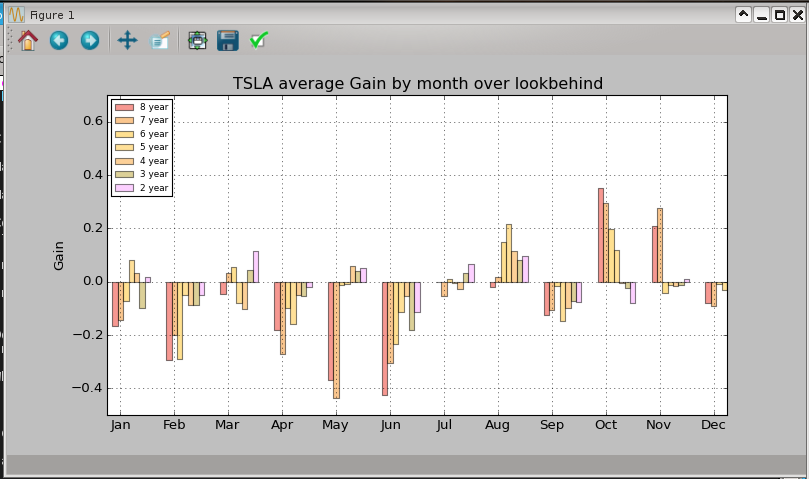
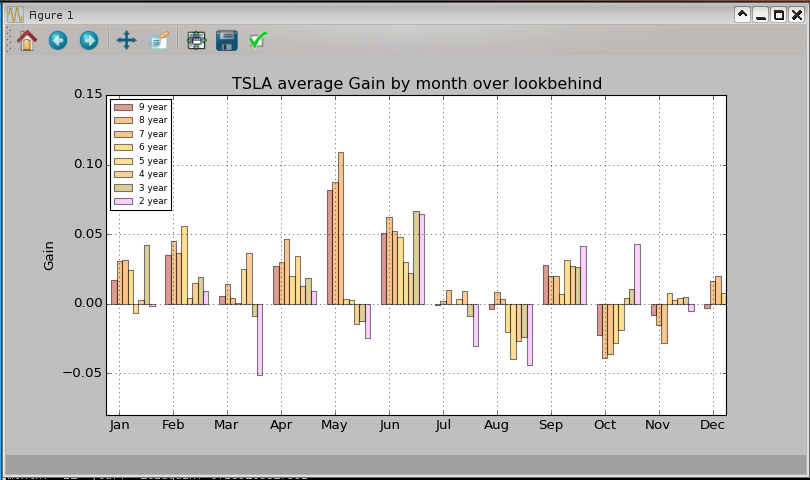
asdf

Changed region(s): [[0.0927, 0.1461, 0.9271, 0.9061], [0.0, 0.0, 1.0, 1.0], [0.2781, 0.4676, 0.309, 0.4969]]

diff --git a/month.py b/month.py
@@ -4,6 +4,7 @@ import pandas as pd
 import matplotlib.pyplot as plt
 import numpy as np
 import datetime
+import time
 
 #1.  Load tsla.csv file
 
@@ -72,7 +73,6 @@ def get_price_for_month_year(startpct, endpct, month, year):
     total = 0.0
     rows_in_month = 0
 
-
     #I need to know how many rows are in this month:
     rows_in_month = 0.0
     for row in X:
@@ -80,20 +80,24 @@ def get_price_for_month_year(startpct, endpct, month, year):
             rows_in_month += 1
 
     #print("rows_in_month: '" + str(rows_in_month) + "'")
+    #time.sleep(1)
 
+    #throw out months with less than 14 days in it
+    if rows_in_month < 16:
+        print("month: '" + str(month) + "' and year: '" + str(year) + "' insufficient data")
+        return 0.0
 
     #Filter csv rows by concrete year and concrete month, roughly 20 rows
-    import time
-    count_day = 0.0
+    count_day = 0
+    total_cnt = 0
     for row in X:
-
-        
         if int(year) == int(row[0]) and int(month) == int(row[1]):
-            percent_through_month = count_day / rows_in_month
+            percent_through_month = float(count_day) / float(rows_in_month)
             #print("percent_through_month: '" + str(percent_through_month) + "'")
 
             if percent_through_month > startpct and percent_through_month < endpct:
-                total += row[3]
+                total += float(row[3])
+                total_cnt += 1
 
             count_day += 1
             #time.sleep(0.1)
@@ -112,10 +116,10 @@ def get_price_for_month_year(startpct, endpct, month, year):
     #print("total: '" + str(total) + "'")
     #time.sleep(0.1)
     try:
-        price = float(total) / float(rows_in_month)
+        price = float(total) / float(total_cnt)
     except:
         price = 0.0
-        #print("programmer error, this equation should always work")
+        print("programmer error, on month: ' " + str(int(month)) + "' year: '" + str(int(year)) + "' this equation should always work")
         #exit()
 
     return float(price)
@@ -125,13 +129,16 @@ def calculate_gain_from_month_and_year(month, year):
 
     #Jan 2005,
 
+
+    #woah woah, don't look at this backwards, we're looking at the rows top down 
+    #which is present -> past, first means top which means present
     startpct = 0.0
     endpct = 0.3
-    first_third = get_price_for_month_year(startpct, endpct, month, year)
+    last_third = get_price_for_month_year(startpct, endpct, month, year)
 
     startpct = 0.7
     endpct = 1.0
-    last_third  = get_price_for_month_year(startpct, endpct, month, year)
+    first_third  = get_price_for_month_year(startpct, endpct, month, year)
 
     #month_data is a list of [ date, open, high,  low,  close ]
 
@@ -139,12 +146,15 @@ def calculate_gain_from_month_and_year(month, year):
     #get the last 30% of the data
     #Get the gain from the first 3rd averaged and the last 3rd averaged
 
+
+
     #return that
     if (float(first_third) == 0):
-        #There isn't enough data for this year/month
+        print("There isn't enough data for this year/month")
         return 0
 
     else:
+        print("year: '" + str(year) + "' first_third: '" + str(first_third) + "' last_third: '" + str(last_third) + "' thegain: '" + str( ((last_third - first_third) / first_third)) + "'")
         return ((last_third - first_third) / first_third)
 
 
@@ -155,10 +165,14 @@ def calculate_gain_from_month_and_year_range(month, year_range):
     #calculate gain based on month and year_range
 
     total_gain = 0.0
+    total_cnt = 0
     for year in year_range:
-
         total_gain += calculate_gain_from_month_and_year(month, year)
-    return total_gain
+        total_cnt += 1
+
+    print("month: '" + str(month) + "' year: '" + str(year) + "gain: " + str(total_gain))
+
+    return float(total_gain) / float(total_cnt)
 
 
 now = datetime.datetime.now()
@@ -179,6 +193,7 @@ month_map={
     12 : 'Dec'
 }
 lookbehind_map={
+    9 : '9_yr', 
     8 : '8_yr', 
     7 : '7_yr',
     6 : '6_yr',
@@ -189,6 +204,7 @@ lookbehind_map={
 }
 
 raw_data = {'month': ['Jan', 'Feb', 'Mar', 'Apr', 'May', 'Jun', 'Jul', 'Aug', 'Sep', 'Oct', 'Nov', 'Dec'],
+        '9_yr':      [4,     2.4,   3.1,    2,      3,     9.0,  2, 3, 4, 5, 6, 7],
         '8_yr':      [4,     2.4,   3.1,    2,      3,     9.0,  2, 3, 4, 5, 6, 7],
         '7_yr':      [2.5,   9.4,   5.7,    6.2,   7.0,    1.0,  2, 3, 4, 5, 6, 7],
         '6_yr':      [2.5,   3.4,   5.7,    6.2,   7.0,    1.0,  2, 3, 4, 5, 6, 7],
@@ -197,10 +213,18 @@ raw_data = {'month': ['Jan', 'Feb', 'Mar', 'Apr', 'May', 'Jun', 'Jul', 'Aug', 'S
         '3_yr':      [2.5,   1.4,  -5.7,    0.2,   7.0,    1.0,  2, 3, 4, -5, 6, 7],
         '2_yr':      [5,     4.3,   2.3,    2.3,   5.1,   2.0,   2, 3, 4, 5, 6, 7]}
 
+print("begin the program")
+#time.sleep(1)
 
 #months is integer, ones based
 for month in ['1', '2', '3', '4', '5', '6', '7', '8', '9', '10', '11', '12']:
-    for year_lookbehind in [8, 7, 6, 5, 4, 3, 2]:
+    #print("looking at month " + str(month))
+    #time.sleep(1)
+
+    for year_lookbehind in [9, 8, 7, 6, 5, 4, 3, 2]:
+
+        #print("using year_lookbehind: " + str(year_lookbehind))
+        #time.sleep(1)
 
         total_gain = 0
         counter = 0
@@ -208,20 +232,24 @@ for month in ['1', '2', '3', '4', '5', '6', '7', '8', '9', '10', '11', '12']:
         int_year_range = range(0, year_lookbehind)
         thisyear_list = [thisyear]*len(int_year_range)
         year_range = [a - b for a, b in zip(thisyear_list, int_year_range)]
+        
+        #print("year_range: '" + str(year_range) + "'")
+
         gain = calculate_gain_from_month_and_year_range(month, year_range)
+        #print("gain: '" + str(gain) + "'")
+        #exit()
+        #print("month: '" + str(month) + "'")
+        #print("gain: '" + str(gain) + "'")
+        #print(month_map[int(month)])
+        #print(lookbehind_map[int(year_lookbehind)])
 
-        print("month: '" + str(month) + "'")
-        print("gain: '" + str(gain) + "'")
-        print(month_map[int(month)])
-        print(lookbehind_map[int(year_lookbehind)])
-
-        print(raw_data[lookbehind_map[int(year_lookbehind)]][int(month)-1])
+        #print(raw_data[lookbehind_map[int(year_lookbehind)]][int(month)-1])
         raw_data[lookbehind_map[int(year_lookbehind)]][int(month)-1] = gain
 
 
 
 
-df = pd.DataFrame(raw_data, columns = ['month', '8_yr', '7_yr', '6_yr', '5_yr', '4_yr', '3_yr', '2_yr'])
+df = pd.DataFrame(raw_data, columns = ['month', '9_yr', '8_yr', '7_yr', '6_yr', '5_yr', '4_yr', '3_yr', '2_yr'])
 
 pos = list(range(len(df['8_yr'])))
 width = 0.10
@@ -232,67 +260,76 @@ fig, ax = plt.subplots(figsize=(10,5))
 # Create a bar with 8_yr data,
 # in position pos,
 plt.bar(pos,
+        df['9_yr'],
+        width,
+        alpha=0.5,
+        color='#BE3929',
+        label=df['month'][0])
+print(type(plt.bar))
+
+# Create a bar with 8_yr data,
+# in position pos,
+plt.bar([p + width for p in pos],
         df['8_yr'],
         width,
         alpha=0.5,
-        color='#EE3224',
-        label=df['month'][0])
-print(type(plt.bar))
+        color='#F78F1E',
+        label=df['month'][2])
 
 
 # Create a bar with 7_yr data,
 # in position pos + some width buffer,
-plt.bar([p + width for p in pos],
+plt.bar([p + width*2 for p in pos],
         df['7_yr'],
         width,
         alpha=0.5,
         color='#F78F1E',
-        label=df['month'][1])
+        label=df['month'][2])
 
 # Create a bar with 6_yr data,
 # in position pos + some width buffer,
-plt.bar([p + width*2 for p in pos],
+plt.bar([p + width*3 for p in pos],
         df['6_yr'],
         width,
         alpha=0.5,
         color='#FFC222',
-        label=df['month'][2])
+        label=df['month'][3])
 
 # Create a bar with 5_yr data,
 # in position pos + some width buffer,
-plt.bar([p + width*3 for p in pos],
+plt.bar([p + width*4 for p in pos],
         df['5_yr'],
         width,
         alpha=0.5,
         color='#FFC233',
-        label=df['month'][3])
+        label=df['month'][4])
 
 # Create a bar with 4_yr data,
 # in position pos + some width buffer,
-plt.bar([p + width*4 for p in pos],
+plt.bar([p + width*5 for p in pos],
         df['4_yr'],
         width,
         alpha=0.5,
         color='#FAA233',
-        label=df['month'][4])
+        label=df['month'][5])
 
 # Create a bar with 3_yr data,
 # in position pos + some width buffer,
-plt.bar([p + width*5 for p in pos],
+plt.bar([p + width*6 for p in pos],
         df['3_yr'],
         width,
         alpha=0.5,
         color='#BAA233',
-        label=df['month'][5])
+        label=df['month'][6])
 
 # Create a bar with 2_yr data,
 # in position pos + some width buffer,
-plt.bar([p + width*6 for p in pos],
+plt.bar([p + width*7 for p in pos],
         df['2_yr'],
         width,
         alpha=0.5,
         color='#FAA2FF',
-        label=df['month'][6])
+        label=df['month'][7])
 
 # Set the y axis label
 ax.set_ylabel('Gain')
@@ -311,10 +348,11 @@ plt.xlim(min(pos)-width, max(pos)+width*4)
 
 #hardcode height:
 #plt.ylim([-0.5, max(df['8_yr'] + df['7_yr'] + df['6_yr'])] )
-plt.ylim([-0.5, 0.7] )
+#plt.ylim([-0.5, 0.7] )
+plt.ylim([-0.08, 0.15] )
 
 # Adding the legend and showing the plot
-plt.legend(['8 year', '7 year', '6 year', '5 year', '4 year', '3 year', '2 year', '1 year'],
+plt.legend(['9 year', '8 year', '7 year', '6 year', '5 year', '4 year', '3 year', '2 year'],
             prop={'size': 8}, loc='upper left')
 plt.grid()
 plt.show()
